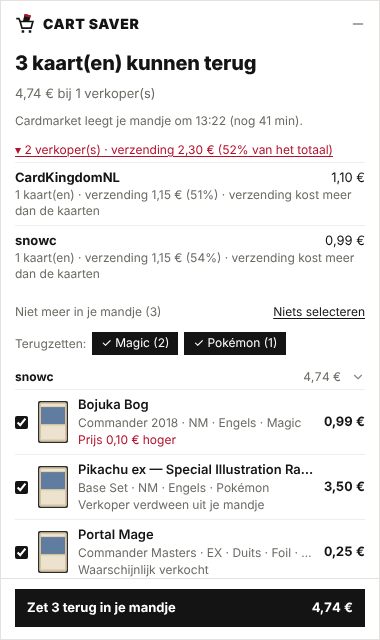
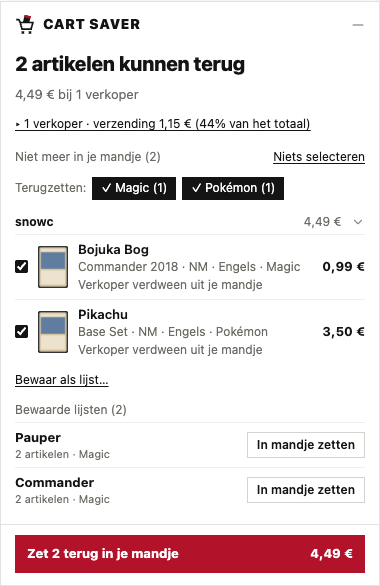
README, screenshots and analysis for 1.6
- README: pictures, sealed products, ticks and undo, saved lists; privacy
  now names Cardmarket's picture server; Cardmarket's own warning about
  keeping articles in the cart, and why Cart Saver never puts things back
  by itself.
- Screenshots from the 1.6 test run (unreferenced older ones removed).
- docs/ANALYSE-1.6.md opens with what 1.6 solved and what was left on
  purpose.
- The popup's privacy line names the picture server too.

diff --git a/README.md b/README.md
@@ -33,13 +33,13 @@ vervanging.
 
 | | |
 |---|---|
-| **Automatisch onthouden** | Elk artikel in je mandje wordt bewaard: kaart, verkoper, conditie, taal, foil, prijs en aantal. Je hoeft niets te doen. |
-| **Eén klik terug** | Eén verzoek per verkoper, en alleen wat echt ontbreekt. Dus ook "1 van 2 in je mandje" wordt aangevuld. Spijt? *Ongedaan maken*. |
+| **Automatisch onthouden** | Elk artikel in je mandje wordt bewaard, kaarten én sealed (boosterboxen, displays…): verkoper, conditie, taal, foil, prijs en aantal, met plaatje. Je hoeft niets te doen. |
+| **Eén klik terug** | Eén verzoek per verkoper, en alleen wat echt ontbreekt. Dus ook "1 van 2 in je mandje" wordt aangevuld. Met vinkjes kies je wat terug moet. Spijt? *Ongedaan maken*. |
 | **Weten wat er gebeurde** | Per artikel zie je of het mandje werd geleegd, of de verkoper verdween of dat alleen dit artikel verkocht is, en of de prijs veranderde. |
 | **Vervanging voor verkochte kaarten** | Dezelfde kaart bij dezelfde verkoper, bij een verkoper die al in je mandje zit (geen extra verzending), of het goedkoopste vergelijkbare aanbod. |
 | **Alle spellen in één mandje** | Magic, Pokémon, Yu-Gi-Oh!, One Piece, Lorcana… Kies zelf welke spellen terug moeten. |
-| **Favorieten en bewaarde mandjes** | Bewaar een aanbieding met een ☆, of je hele lijst onder een naam ("Commander-deck") om later terug te zetten. |
-| **Op tijd gewaarschuwd** | Hoe laat Cardmarket je mandje leegt, verzendkosten per verkoper, en een melding als er iets verdwijnt. |
+| **Favorieten en lijsten** | Bewaar een aanbieding met een ☆, of je hele mandje als lijst ("Commander-deck") om later met één klik terug te zetten. |
+| **Op tijd gewaarschuwd** | Verzendkosten per verkoper, een melding als er iets verdwijnt, en hoe laat Cardmarket je mandje leegt (als Cardmarket dat laat zien). |
 
 ## Zo werkt het
 
@@ -55,7 +55,7 @@ het icoon in de werkbalk telt mee.
 </p>
 
 **3. Zet terug.** Eén klik, en de kaarten liggen weer in je mandje. Wat
-verkocht is krijgt een stempel, met een voorstel voor vervanging.
+verkocht is krijgt een stempel, met *Vervanging zoeken*.
 
 <p align="center">
   <img src="docs/screenshots/panel-result.png" width="380" alt="Resultaat na het terugzetten">
@@ -64,12 +64,14 @@ verkocht is krijgt een stempel, met een voorstel voor vervanging.
 </p>
 
 In de popup vind je alles terug: wat terug kan (per verkoper, met de details
-als je op een kaart klikt), je **favorieten** en je **bewaarde mandjes**.
+als je op een kaart klikt), je **favorieten** en je **lijsten**. Een lijst maak
+je met *Bewaar als lijst…* in het tabblad Winkelmandje of in het paneel op
+Cardmarket.
 
 <p align="center">
   <img src="docs/screenshots/popup-favorites.png" width="380" alt="Favorieten in de popup">
   &nbsp;
-  <img src="docs/screenshots/popup-carts.png" width="380" alt="Bewaarde mandjes in de popup">
+  <img src="docs/screenshots/popup-carts.png" width="380" alt="Bewaarde lijsten in de popup">
 </p>
 
 ## Installeren
@@ -114,8 +116,9 @@ wijzigingen, commits of een andere branch.
 
 - Alles blijft in je eigen browser. Er is geen server en er wordt niets
   verstuurd.
-- Cart Saver praat alleen met cardmarket.com, via je eigen ingelogde sessie.
-  Er worden geen wachtwoorden bewaard.
+- Cart Saver praat alleen met Cardmarket: de site zelf, via je eigen
+  ingelogde sessie, en de plaatjesserver van Cardmarket (voor de plaatjes in
+  de popup). Er worden geen wachtwoorden bewaard.
 - Optioneel (standaard uit): één keer per dag de openbare prijsgids van
   Cardmarket downloaden om prijzen met de trend te vergelijken.
 
@@ -129,6 +132,10 @@ wijzigingen, commits of een andere branch.
   dan kan hij niet terug; gebruik dan *Vervanging zoeken*.
 - Gebruik het met mate: verzoeken gaan alleen na jouw klik (of als je mandje
   veranderde), één tegelijk en met een pauze ertussen.
+- Cardmarket zegt zelf bovenaan het mandje: houd er alleen artikelen in die je
+  echt wilt kopen; misbruik van het mandje kan tot schorsing van je account
+  leiden. Gebruik Cart Saver dus om terug te zetten wat je wilt kopen, niet om
+  aanbiedingen vast te houden. Daarom zet hij nooit vanzelf iets terug.
 
 <details>
 <summary><b>Voor ontwikkelaars</b></summary>
@@ -149,7 +156,7 @@ src/
   background/  service-worker.js (badge, meldingen, zelf bijwerken, prijsgids),
                images.js (plaatjes voor de popup)
 _locales/      nl, en
-scripts/       autoupdate-mac.sh, make-icons.mjs
+scripts/       autoupdate-mac.sh (met check-build.js), make-icons.mjs
 tests/         end-to-end-tests tegen een nagebootste Cardmarket
 docs/          onderzoek, functionele eisen, design-brief, screenshots
 ```

diff --git a/docs/ANALYSE-1.6.md b/docs/ANALYSE-1.6.md
@@ -1,5 +1,41 @@
 # Analyse voor 1.6: plaatjes, bugs en wat beter kan
 
+## Stand van zaken: gebouwd in 1.6
+
+Alle vijf stappen uit [§6](#6-voorstel-voor-16) zijn gebouwd en getest.
+Dat gaat om 89 tests tegen de nagebootste site, plus een optionele test tegen
+Cardmarkets echte plaatjesserver (`CMCS_LIVE=1 npm test`).
+
+| Stap | Opgelost |
+|---|---|
+| 1. Plaatjes en de echte site | P1–P6, S1–S5, B10 |
+| 2. Niets meer kwijtraken | B1–B5, B7–B9, B13, B25–B30, B33, U4, T4 |
+| 3. Mandjes logisch | U1–U3, B16, B21 |
+| 4. Rust en kloppende getallen | B12, B14, B15, B20, B22–B24, B31, B32, T1–T7 |
+| 5. Popup en paneel gelijk | U5–U8, B17–B19, en het grootste deel van U9 |
+
+Bewust (nog) niet gedaan:
+
+- **B6, gelijktijdig schrijven.** De kans is kleiner geworden: plaatjes
+  hebben nu een eigen sleutel en worden alleen door de achtergrond
+  geschreven. Helemaal oplossen vraagt één plek die alles schrijft.
+- **B11, namen van de sloten.** Het paneel en de sterren staan toch zichtbaar
+  in de pagina, dus de namen verbergen helpt niets.
+- **B27, opslag vol.** De grens van 10 MB is weg (`unlimitedStorage`), maar
+  een mislukte schrijfactie wordt nog niet gemeld.
+- **B32, geheugen.** De prijsgids wordt nog in één keer gelezen, wel hooguit
+  één keer per dag en met een 304 als hij niet veranderde.
+- **B33, deels.** Een "ongedaan maken" is voor de achtergrond nog niet
+  zichtbaar als lopende klus.
+- **B38.** De toestemming voor de prijsgids is nog niet optioneel.
+- **S6, P7 en U9.** De trend van de productpagina en verkopersfoto's komen
+  later. Popup en paneel doen nu hetzelfde, maar hun code is nog niet
+  helemaal gedeeld.
+- **S9.** Wanneer Cardmarket "je mandje wordt geleegd om …" toont, weten we
+  nog steeds niet.
+
+---
+
 Onderzocht op 9 oktober 2026 (Cart Saver 1.5.0), op drie manieren:
 
 1. **De echte site.** In je eigen, ingelogde Chrome en met DevTools. Ik heb

diff --git a/docs/REQUIREMENTS.md b/docs/REQUIREMENTS.md
@@ -1,6 +1,6 @@
 # Functionele requirements — Cardmarket Cart Saver
 
-Stand van zaken: versie 1.0.0, met de latere aanpassingen aan het ontwerp (1.5).
+Stand van zaken: versie 1.0.0, met de latere aanpassingen tot en met 1.6 (zie de analyses in docs/).
 
 Dit document beschrijft:
 
